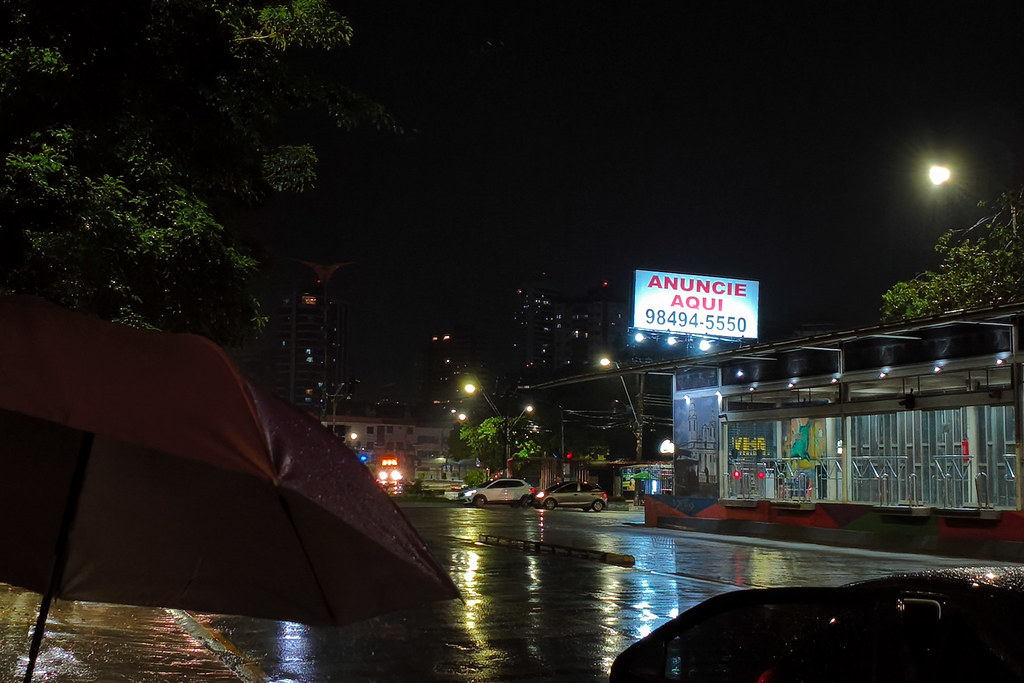
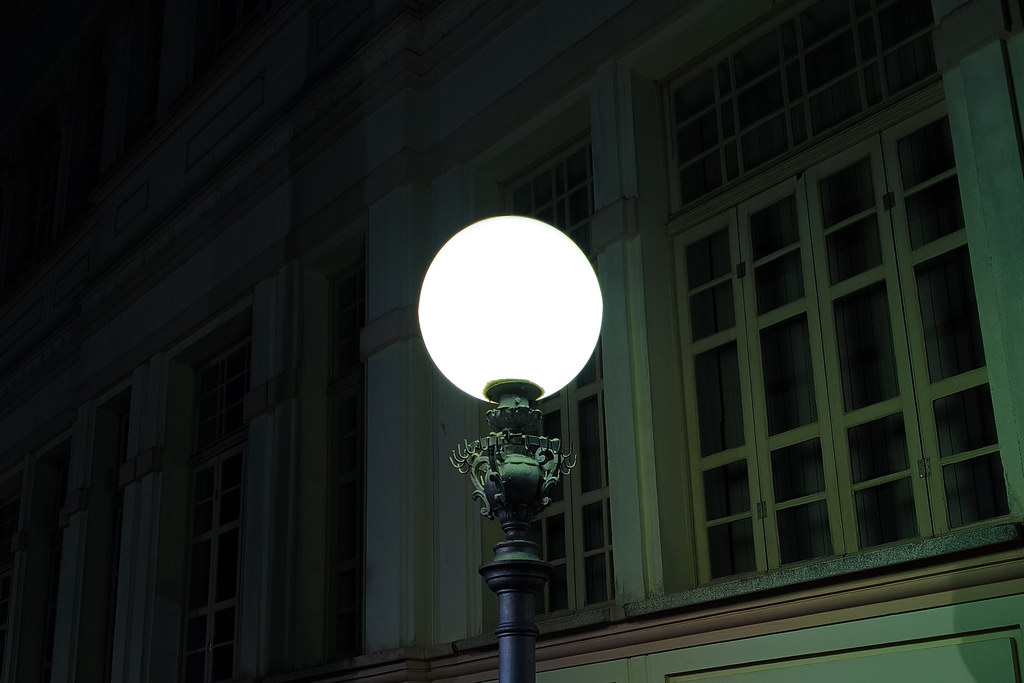
uploeaing images

diff --git a/Small_Talk/pictures.html b/Small_Talk/pictures.html
@@ -264,7 +264,7 @@
                 </div>
                 <div class="gallery-item">
                     <img src="../images/gallery/thumbs/73.jpg" data-full="../images/gallery/73.jpg" loading="lazy">
-                </div>  
+                </div>
                 <div class="gallery-item">
                     <img src="../images/gallery/thumbs/74.jpg" data-full="../images/gallery/74.jpg" loading="lazy">
                 </div>
@@ -324,6 +324,15 @@
                 </div>
                 <div class="gallery-item">
                     <img src="../images/gallery/thumbs/93.jpg" data-full="../images/gallery/93.jpg" loading="lazy">
+                </div>
+                <div class="gallery-item">
+                    <img src="../images/gallery/thumbs/94.jpg" data-full="../images/gallery/94.jpg" loading="lazy">
+                </div>
+                <div class="gallery-item">
+                    <img src="../images/gallery/thumbs/95.jpg" data-full="../images/gallery/95.jpg" loading="lazy">
+                </div>
+                <div class="gallery-item">
+                    <img src="../images/gallery/thumbs/96.jpg" data-full="../images/gallery/96.jpg" loading="lazy">
                 </div>
             </div>
         </div>
